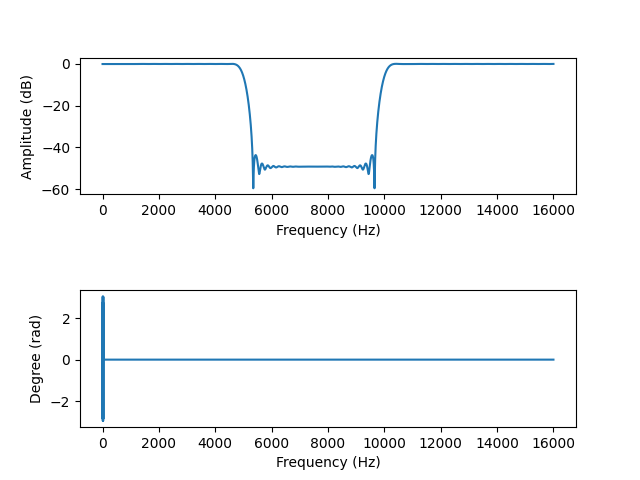
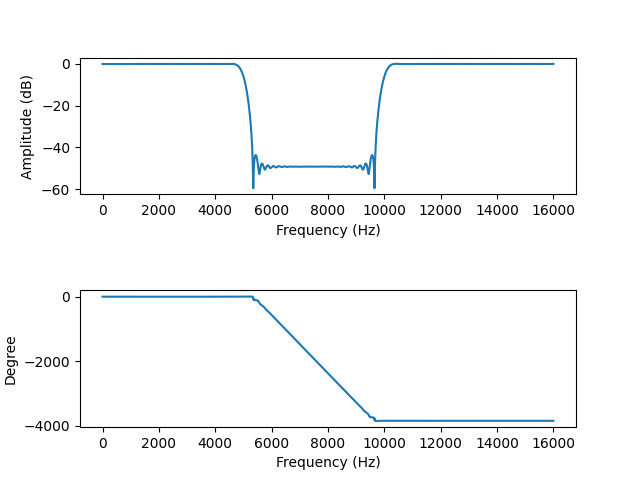
change show_freq_responce(deg)

diff --git a/ex2/h_miyaji/main.py b/ex2/h_miyaji/main.py
@@ -141,7 +141,7 @@ def show_freq_responce(h: np.ndarray, samplerate: int) -> None:
     amp = 20 * np.log10(np.abs(H))
 
     # 位相特性[rad]
-    deg = np.angle(h)
+    deg = np.unwrap(np.angle(H, deg=True))
 
     # グラフ描画
     freq = np.linspace(0, samplerate, h.size)
@@ -157,7 +157,7 @@ def show_freq_responce(h: np.ndarray, samplerate: int) -> None:
     ax2 = plt.subplot(2, 1, 2)
     ax2.plot(freq[: h.size // 2], deg[: h.size // 2], label="位相特性")
     ax2.set_xlabel("Frequency (Hz)")
-    ax2.set_ylabel("Degree (rad)")
+    ax2.set_ylabel("Degree")
     plt.subplots_adjust(hspace=0.7)
 
     plt.savefig("freq_responce.png")
@@ -220,7 +220,7 @@ def main():
     )
 
     # フィルタリングされた信号のwavファイル作成
-    sf.write("filtered_req.wav", np.abs(data_filtered), samplerate)
+    sf.write("filtered_rec.wav", np.abs(data_filtered), samplerate)
 
 
 if __name__ == "__main__":
